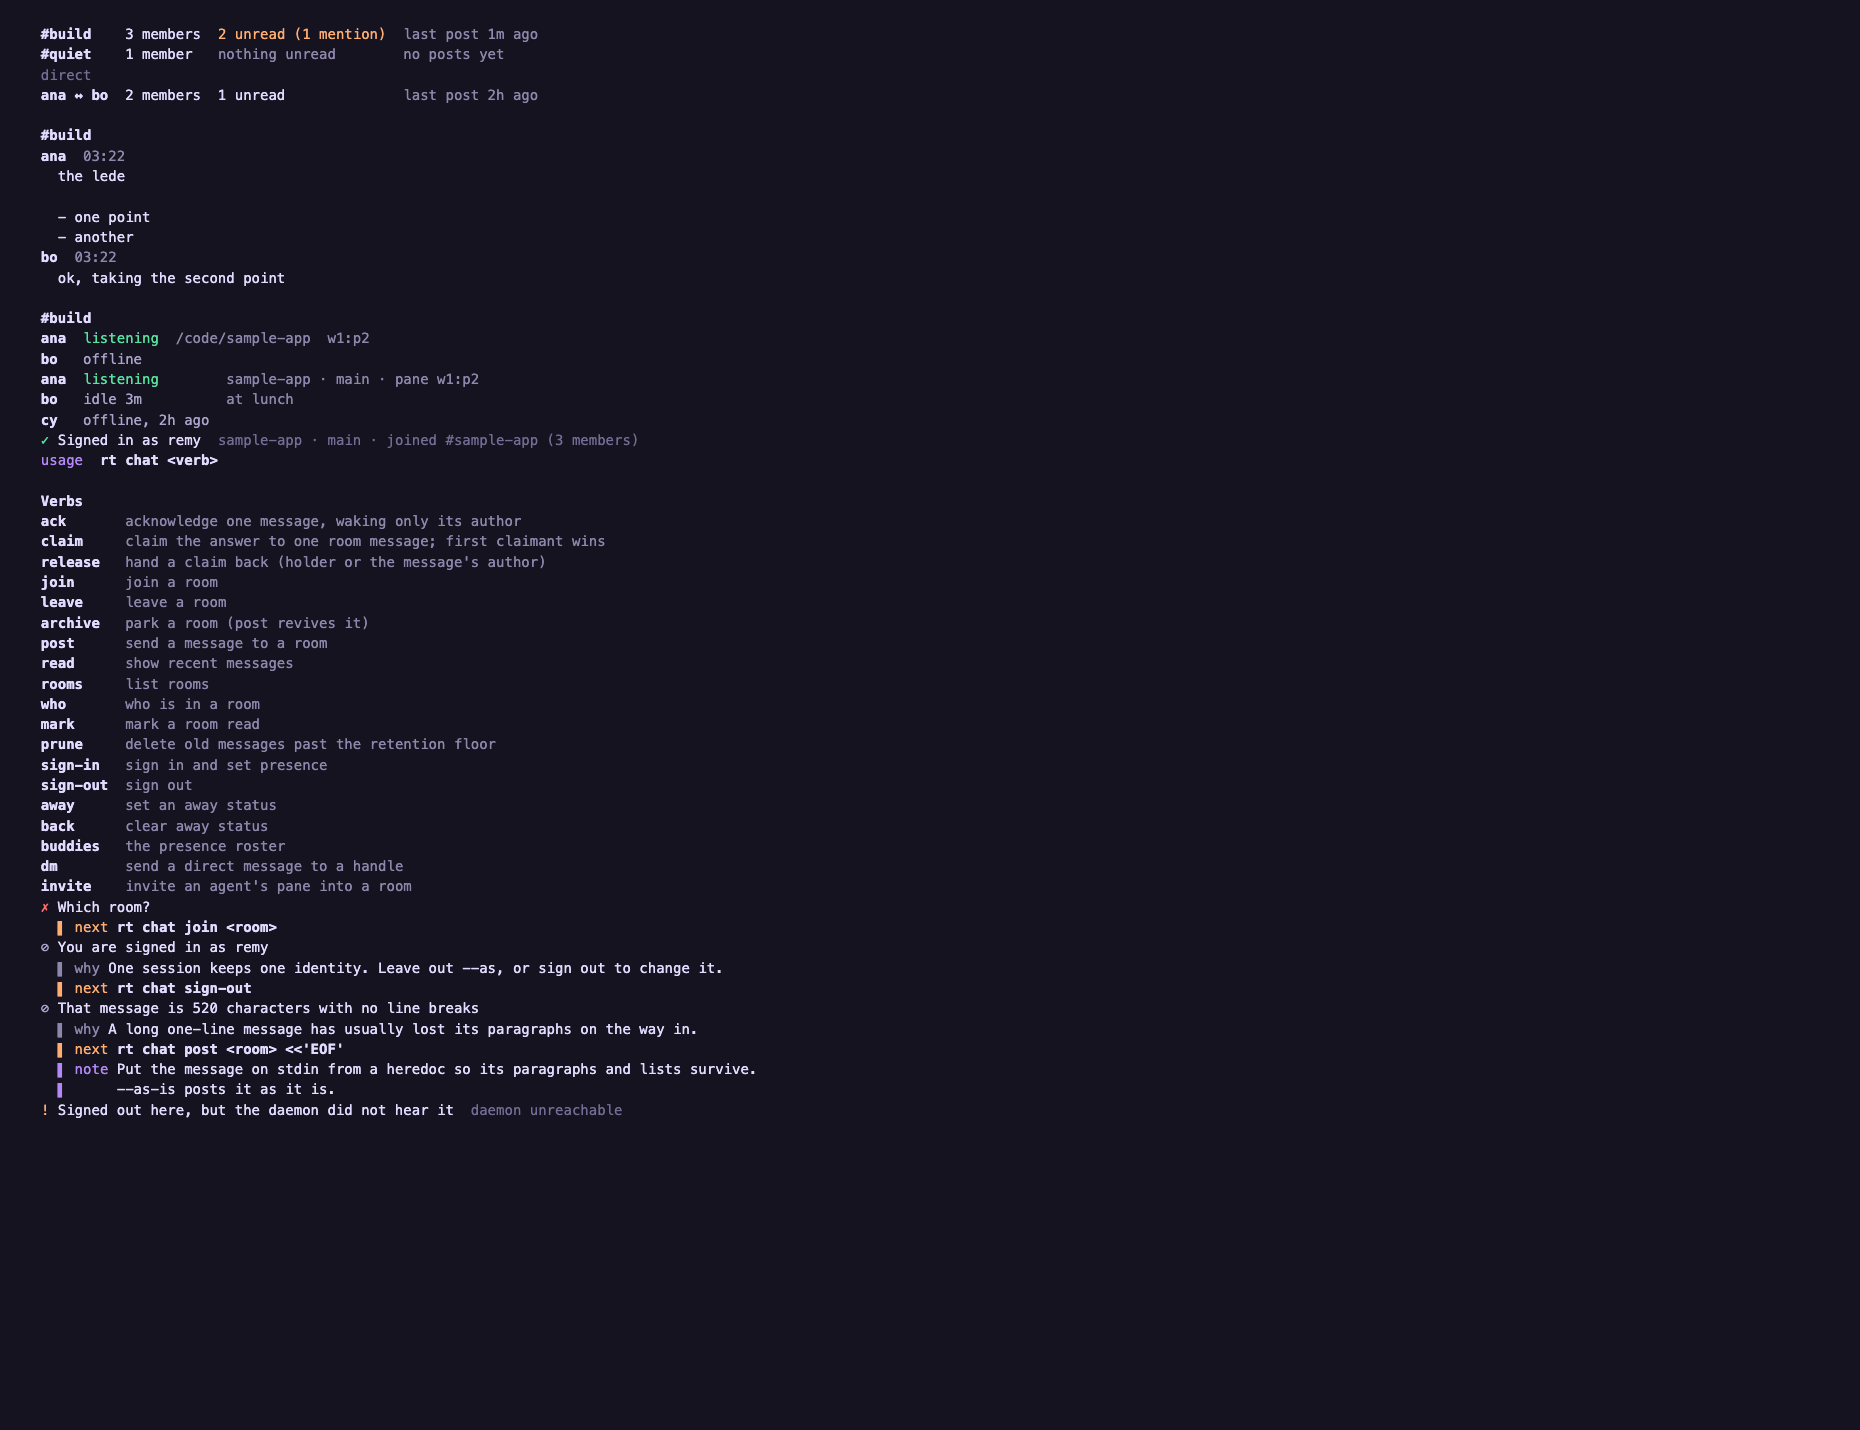
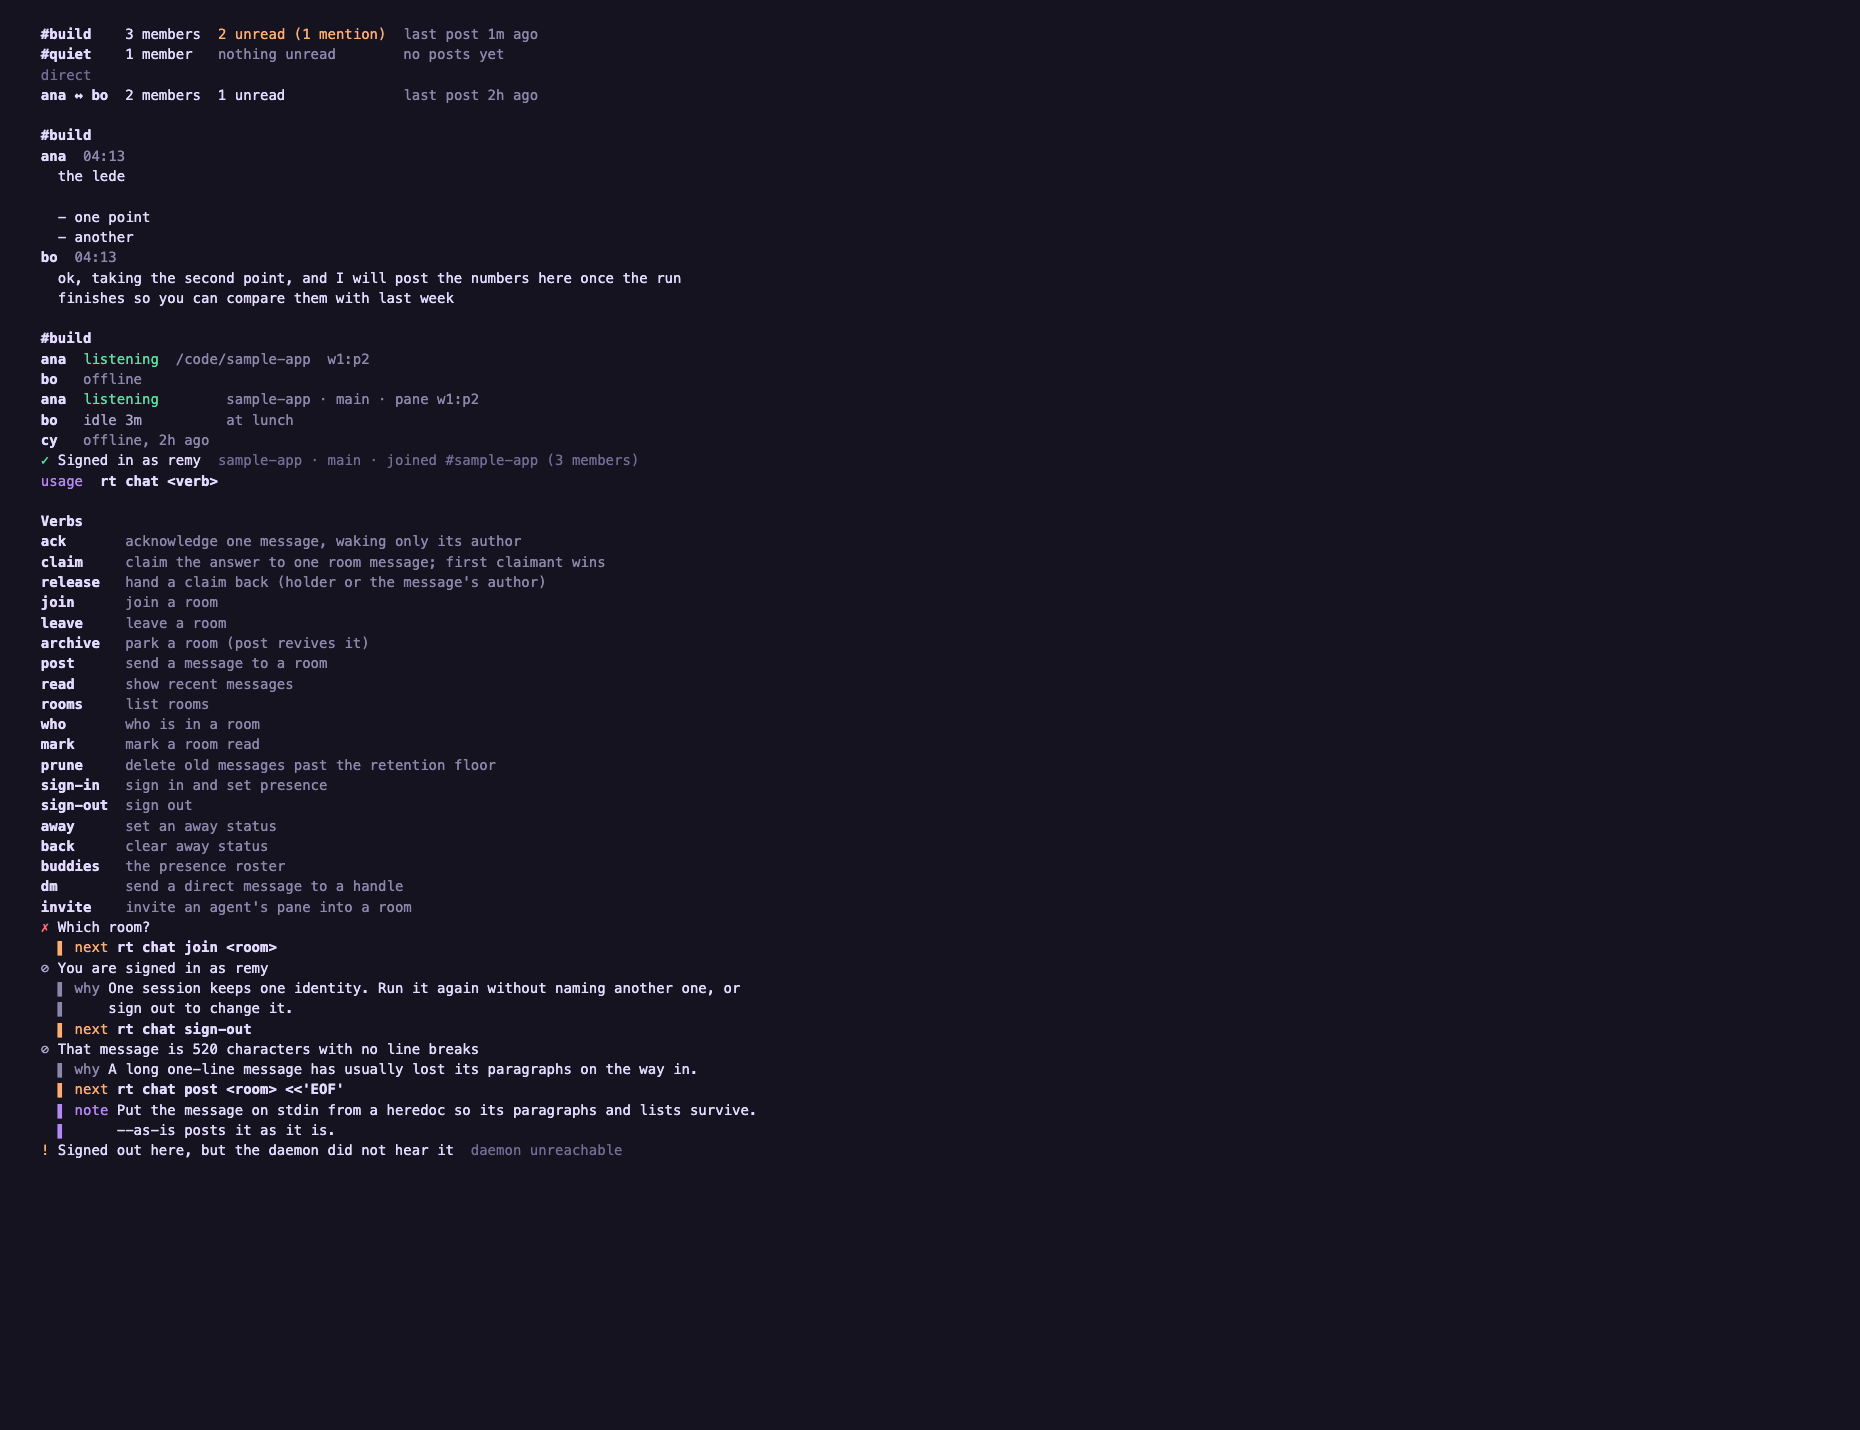
docs: chat renders after the wrap and copy fixes

Changed region(s): [[0.0312, 0.1846, 0.3742, 0.8308], [0.2183, 0.2769, 0.343, 0.3385], [0.343, 0.7385, 0.3742, 0.7692]]

diff --git a/docs/design/output-layer/README.md b/docs/design/output-layer/README.md
@@ -85,4 +85,4 @@ the ANSI output on each background.
 
 - `chat-dark.png`, `chat-light.png`: what a person sees from `rt chat`: rooms, read, who, buddies, sign-in, help, a failure, the two policy refusals and the sign-out warning. Off a terminal these verbs print their older plain text, unchanged.
 
-What reads wrong: a message's body is indented under its name and time, but there is no blank line between one message and the next author, so a long thread reads dense. On dark, the `idle` and `offline` words in `who` and `buddies` are drawn near the body foreground, so they are not visibly quieter than `listening`; on light they are dimmed. Times in `read` are UTC with no zone, as the plain text always printed them.
+What reads wrong: there is no blank line between one message and the next author, so a long thread reads dense. A wrapped body line now hangs under its own indent, so it cannot land at the author column. `read` times are UTC with no zone, as the plain text always printed them.
